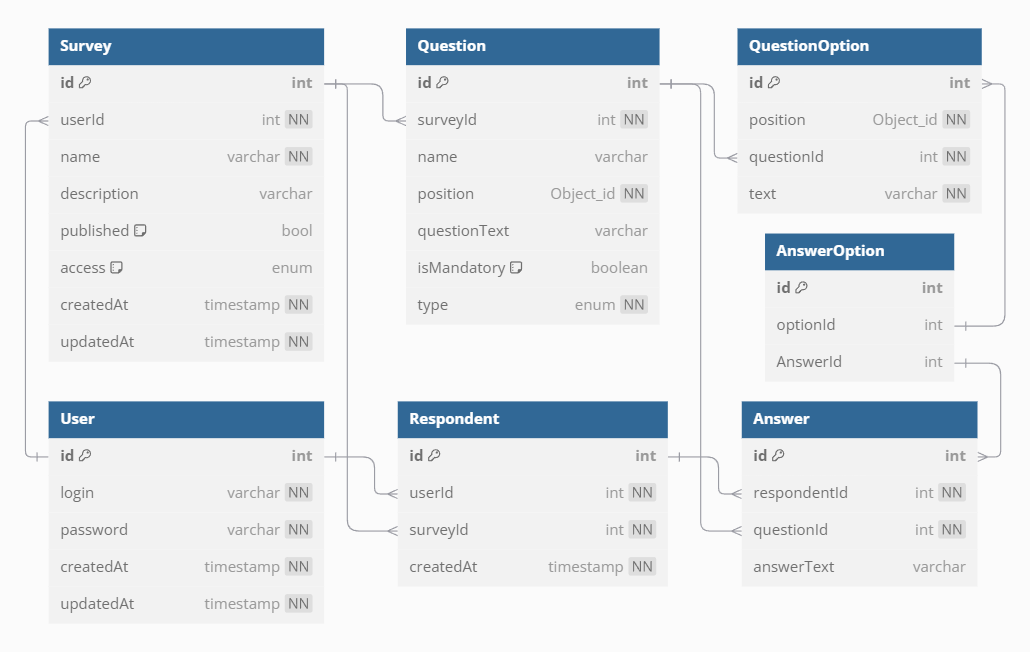
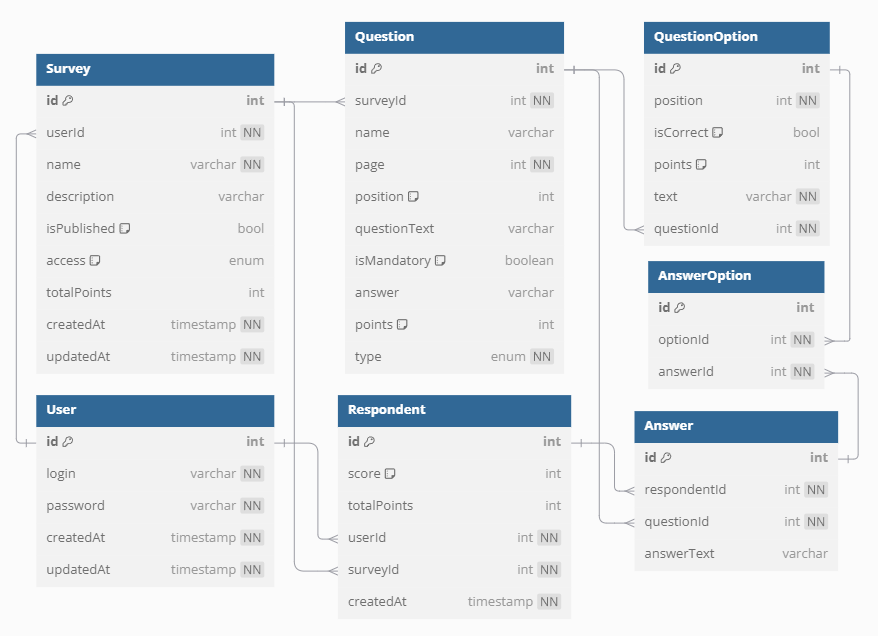
feat: create db and entities

diff --git a/src/surveys/entities/question.entity.ts b/src/surveys/entities/question.entity.ts
@@ -1,0 +1,51 @@
+import { 
+  Entity, 
+  PrimaryGeneratedColumn, 
+  Column, 
+  ManyToOne, 
+  BaseEntity,
+  OneToMany
+} from 'typeorm';
+import { QuestionType } from './survey.enum';
+import { SurveyEntity } from './survey.entity';
+import { AnswerEntity } from 'src/respondents/entities/answer.entity';
+import { QuestionOptionEntity } from './question-option.entity';
+
+@Entity('questions')
+export class QuestionEntity extends BaseEntity {
+  @PrimaryGeneratedColumn('uuid')
+  id: string;
+
+  @Column({ type: 'varchar', length: 255 })
+  name!: string;
+
+  @Column({ type: 'integer', default: 1 })
+  page: number;
+
+  @Column({ type: 'integer' })
+  position!: number;
+
+  @Column({ type: 'varchar', length: 512 })
+  questionText: string;
+
+  @Column({ type: 'bool', default: false })
+  isMandatory: boolean;
+
+  @Column({ type: 'varchar' })
+  answer: string;
+
+  @Column({ type: 'integer', default: 0 })
+  points: number;
+
+  @Column({ type: 'enum', enum: QuestionType })
+  type!: QuestionType;
+
+  @OneToMany(() => QuestionOptionEntity, (questionOption) => questionOption.question)
+  questionOptions: QuestionOptionEntity[];
+
+  @OneToMany(() => AnswerEntity, (answer) => answer.question)
+  answers: AnswerEntity[];
+
+  @ManyToOne(() => SurveyEntity, (survey) => survey.questions)
+  survey: SurveyEntity;
+};

diff --git a/src/surveys/entities/survey.entity.ts b/src/surveys/entities/survey.entity.ts
@@ -1,0 +1,50 @@
+import { 
+  Entity, 
+  PrimaryGeneratedColumn, 
+  Column, 
+  ManyToOne, 
+  CreateDateColumn, 
+  UpdateDateColumn,
+  BaseEntity,
+  OneToMany
+} from 'typeorm';
+import { SurveyAccess } from './survey.enum';
+import { UserEntity } from 'src/users/entities/user.entity';
+import { QuestionEntity } from './question.entity';
+import { RespondentEntity } from 'src/respondents/entities/respondent.entity';
+
+@Entity('surveys')
+export class SurveyEntity extends BaseEntity {
+  @PrimaryGeneratedColumn('uuid')
+  id: string;
+
+  @Column({ type: 'varchar', length: 255 })
+  name!: string;
+
+  @Column({ type: 'varchar', length: 512 })
+  description: string;
+
+  @Column({ type: 'bool', default: false })
+  isPublished: boolean;
+
+  @Column({ type: 'enum', enum: SurveyAccess, default: SurveyAccess.PUBLIC })
+  access: SurveyAccess;
+
+  @Column({ type: 'integer' })
+  totalPoints: number;
+
+  @CreateDateColumn()
+  createdAt: Date;
+
+  @UpdateDateColumn()
+  updatedAt: Date;
+
+  @OneToMany(() => QuestionEntity, (question) => question.survey)
+  questions: QuestionEntity[];
+
+  @OneToMany(() => RespondentEntity, (respondent) => respondent.survey)
+  respondents: RespondentEntity[];
+
+  @ManyToOne(() => UserEntity, (user) => user.surveys)
+  user: UserEntity;
+};

diff --git a/src/surveys/entities/question-option.entity.ts b/src/surveys/entities/question-option.entity.ts
@@ -1,0 +1,34 @@
+import { 
+  Entity, 
+  PrimaryGeneratedColumn, 
+  Column, 
+  ManyToOne, 
+  BaseEntity,
+  OneToMany,
+} from 'typeorm';
+import { QuestionEntity } from './question.entity';
+import { AnswerOptionEntity } from 'src/respondents/entities/answer-option.entity';
+
+@Entity('questionOptions')
+export class QuestionOptionEntity extends BaseEntity {
+  @PrimaryGeneratedColumn('uuid')
+  id: string;
+
+  @Column({ type: 'integer' })
+  position!: number;
+
+  @Column({ type: 'bool', default: false })
+  isCorrect: boolean;
+
+  @Column({ type: 'integer', default: 0 })
+  points: number;
+
+  @Column({ type: 'varchar', length: 512 })
+  text: string;
+
+  @ManyToOne(() => QuestionEntity, (question) => question.questionOptions)
+  question: QuestionEntity;
+
+  @OneToMany(() => AnswerOptionEntity, (answerOptions) => answerOptions.questionOption)
+  answerOptions: AnswerOptionEntity[];
+};

diff --git a/src/respondents/entities/respondent.entity.ts b/src/respondents/entities/respondent.entity.ts
@@ -1,0 +1,36 @@
+import { 
+  Entity, 
+  PrimaryGeneratedColumn, 
+  ManyToOne, 
+  CreateDateColumn, 
+  BaseEntity,
+  OneToMany,
+  Column
+} from 'typeorm';
+import { AnswerEntity } from './answer.entity';
+import { UserEntity } from 'src/users/entities/user.entity';
+import { SurveyEntity } from 'src/surveys/entities/survey.entity';
+
+@Entity('respondents')
+export class RespondentEntity extends BaseEntity {
+  @PrimaryGeneratedColumn('uuid')
+  id: string;
+
+  @Column({ type: 'integer', default: 0 })
+  score: number;
+
+  @Column({ type: 'integer' })
+  totalPoints: number;
+
+  @CreateDateColumn()
+  createdAt: Date;
+
+  @OneToMany(() => AnswerEntity, (answer) => answer.respondent)
+  answers: AnswerEntity[];
+
+  @ManyToOne(() => SurveyEntity, (survey) => survey.respondents)
+  survey: SurveyEntity;
+
+  @ManyToOne(() => UserEntity, (user) => user.respondents)
+  user: UserEntity;
+};

diff --git a/src/respondents/entities/answer.entity.ts b/src/respondents/entities/answer.entity.ts
@@ -1,0 +1,31 @@
+import { 
+  Entity, 
+  PrimaryGeneratedColumn, 
+  Column, 
+  ManyToOne, 
+  BaseEntity,
+  JoinTable,
+  OneToMany
+} from 'typeorm';
+import { RespondentEntity } from './respondent.entity';
+import { QuestionEntity } from 'src/surveys/entities/question.entity';
+import { AnswerOptionEntity } from './answer-option.entity';
+
+@Entity('answers')
+export class AnswerEntity extends BaseEntity {
+  @PrimaryGeneratedColumn('uuid')
+  id: string;
+
+  @Column({ type: 'varchar', length: 512 })
+  answerText: string;
+
+  @ManyToOne(() => RespondentEntity, (respondent) => respondent.answers)
+  respondent: RespondentEntity;
+  
+  @ManyToOne(() => QuestionEntity, (question) => question.answers)
+  question: QuestionEntity;
+
+  @OneToMany(() => AnswerOptionEntity, (answerOptions) => answerOptions.answer)
+  @JoinTable()
+  answerOptions: AnswerOptionEntity[];
+};

diff --git a/src/users/entities/user.entity.ts b/src/users/entities/user.entity.ts
@@ -1,0 +1,35 @@
+import { RespondentEntity } from 'src/respondents/entities/respondent.entity';
+import { SurveyEntity } from 'src/surveys/entities/survey.entity';
+import { 
+  Entity, 
+  PrimaryGeneratedColumn, 
+  Column, 
+  CreateDateColumn, 
+  UpdateDateColumn,
+  BaseEntity,
+  OneToMany
+} from 'typeorm';
+
+@Entity('users')
+export class UserEntity extends BaseEntity {
+  @PrimaryGeneratedColumn('uuid')
+  id: string;
+
+  @Column({ type: 'varchar', length: 255, unique: true })
+  login!: string;
+
+  @Column({ type: 'varchar', length: 255 })
+  password!: string;
+
+  @CreateDateColumn()
+  createdAt: Date;
+
+  @UpdateDateColumn()
+  updatedAt: Date;
+
+  @OneToMany(() => SurveyEntity, (survey) => survey.user)
+  surveys: SurveyEntity[];
+
+  @OneToMany(() => RespondentEntity, (respondent) => respondent.user)
+  respondents: RespondentEntity[];
+};

diff --git a/src/respondents/respondents.module.ts b/src/respondents/respondents.module.ts
@@ -2,9 +2,18 @@ import { Module } from '@nestjs/common';
 import { RespondentsController } from './respondents.controller';
 import { RespondentsService } from './respondents.service';
 import { ApiTags } from '@nestjs/swagger';
+import { TypeOrmModule } from '@nestjs/typeorm';
+import { AnswerEntity } from './entities/answer.entity';
+import { RespondentEntity } from './entities/respondent.entity';
+import { AnswerOptionEntity } from './entities/answer-option.entity';
 
 @ApiTags('users')
 @Module({
+  imports: [TypeOrmModule.forFeature([
+    AnswerEntity,
+    RespondentEntity,
+    AnswerOptionEntity
+  ])],
   controllers: [RespondentsController],
   providers: [RespondentsService]
 })

diff --git a/database/db-source.ts b/database/db-source.ts
@@ -1,0 +1,19 @@
+import { DataSourceOptions } from 'typeorm';
+import * as dotenv from 'dotenv';
+
+dotenv.config();
+
+const dbPortNumber = process.env.DB_PORT ? +process.env.DB_PORT : 3306
+
+export const dataSourceOptions: DataSourceOptions = {
+  type: 'mysql',
+  host: process.env.DB_HOST,
+  port: dbPortNumber,
+  username: process.env.DB_USERNAME,
+  password: process.env.DB_PASSWORD,
+  database: process.env.DB_NAME,
+  entities: ['dist/**/*.entity.js'],
+  migrations: ['dist/db/migrations/*.js'],
+  synchronize: false,   // включить в будущем при необходимости
+  logging: false,
+};

diff --git a/src/respondents/entities/answer-option.entity.ts b/src/respondents/entities/answer-option.entity.ts
@@ -1,0 +1,20 @@
+import { 
+  Entity, 
+  PrimaryGeneratedColumn, 
+  ManyToOne, 
+  BaseEntity,
+} from 'typeorm';
+import { AnswerEntity } from './answer.entity';
+import { QuestionOptionEntity } from 'src/surveys/entities/question-option.entity';
+
+@Entity('answerOptions')
+export class AnswerOptionEntity extends BaseEntity {
+  @PrimaryGeneratedColumn('uuid')
+  id: string;
+
+  @ManyToOne(() => AnswerEntity, (answer) => answer.answerOptions)
+  answer: AnswerEntity;
+  
+  @ManyToOne(() => QuestionOptionEntity, (questionOption) => questionOption.answerOptions)
+  questionOption: QuestionOptionEntity;
+};

diff --git a/src/surveys/surveys.module.ts b/src/surveys/surveys.module.ts
@@ -1,8 +1,17 @@
 import { Module } from '@nestjs/common';
 import { SurveysService } from './surveys.service';
 import { SurveysController } from './surveys.controller';
+import { TypeOrmModule } from '@nestjs/typeorm';
+import { SurveyEntity } from './entities/survey.entity';
+import { QuestionEntity } from './entities/question.entity';
+import { QuestionOptionEntity } from './entities/question-option.entity';
 
 @Module({
+  imports: [TypeOrmModule.forFeature([
+    SurveyEntity,
+    QuestionEntity,
+    QuestionOptionEntity
+  ])],
   providers: [SurveysService],
   controllers: [SurveysController]
 })

diff --git a/src/users/users.module.ts b/src/users/users.module.ts
@@ -1,8 +1,11 @@
 import { Module } from '@nestjs/common';
 import { UsersController } from './users.controller';
 import { UsersService } from './users.service';
+import { TypeOrmModule } from '@nestjs/typeorm';
+import { UserEntity } from './entities/user.entity';
 
 @Module({
+  imports: [TypeOrmModule.forFeature([UserEntity])],
   controllers: [UsersController],
   providers: [UsersService]
 })

diff --git a/src/app.module.ts b/src/app.module.ts
@@ -10,6 +10,7 @@ import { RespondentsModule } from './respondents/respondents.module';
 
 @Module({
   imports: [
+    TypeOrmModule.forRoot(dataSourceOptions),
     ConfigModule.forRoot({
       cache: true,
       isGlobal: true,
